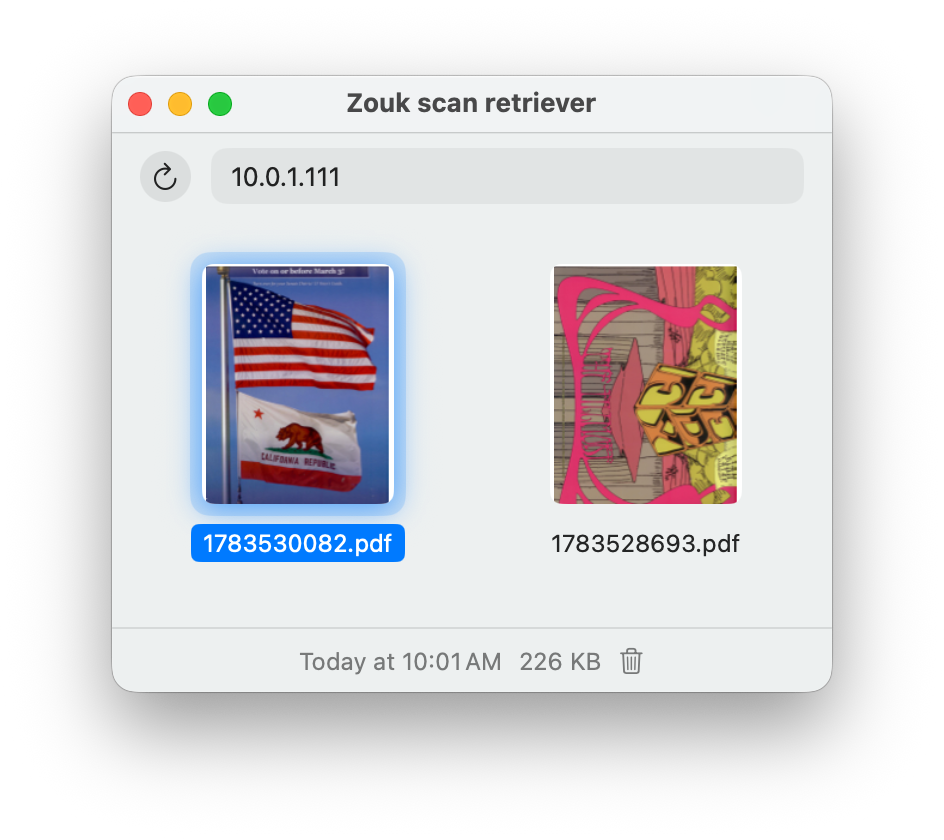
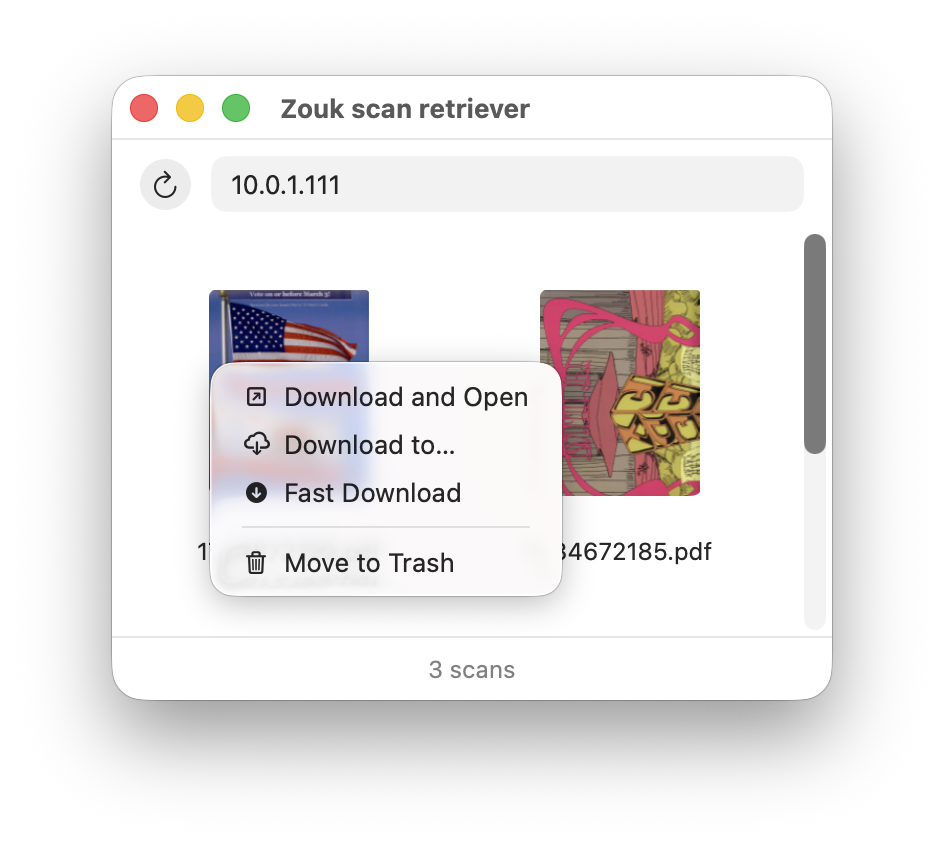
Polish up the README file.

diff --git a/README.md b/README.md
@@ -7,21 +7,19 @@
 
 ![zouk's scan grid, showing two real scans](docs/window.png)
 
-<img height="80" align="right" src="docs/insecure.png">
-
 We now have [tools](https://github.com/woodie/lambada/) to get files from
-an old scanner (that requires and open relay) but downloading files over HTTP
+an old scanner (that requires an open relay) but downloading files over HTTP
 with a web browser can be a drag (with steps to keep unsafe documents off your
 computer) and setting up HTTPS on your internal network is an absolute pain.
 Finally, serving files with Samba can work but it can be slow and awkward to use.
 
 <img align="left" src="docs/art_smaller.png">
 
-Fear not, now we have the Zouk scan retriever for MacOS.
+Fear not, now we have the Zouk scan retriever for macOS.
 This minimal Swift app is just what we need for browsing and downloading scans
 through [lambada](https://github.com/woodie/lambada) (created with Go)
 or [scandalous](https://github.com/woodie/scandalous) (created with Ruby).
-The main screen is similar ro a Samba share but much fater and easier to use.
+The main screen is similar to a Samba share but much faster and easier to use.
 
 On launch, zouk asks for a hostname or IP address (e.g.
 `10.0.1.111`) and remembers it for next time.
@@ -37,10 +35,6 @@ you'll see a brief "Saving…" note, and once it's done the footer reads
 "File … saved." and stays that way until you click something else, so
 it's hard to miss.
 
-Run `make run` rather than `swift run` directly -- it assembles a minimal
-`zouk.app` and launches it with `open`, so macOS activates it like a
-normal Mac app instead of leaving keystrokes going to the terminal.
-
 ## Compatibility
 
 zouk talks `GET /files.json` and expects a `path` field per entry.
@@ -54,6 +48,8 @@ Building from source and the project layout moved to
 [docs/DEVELOPER.md](docs/DEVELOPER.md).
 
 ## Install
+
+### macOS
 
 **Homebrew install or direct pkg download**
 
@@ -78,3 +74,8 @@ double-click it -- Next, Next, Done, like any other Mac installer.
 Zouk is signed and notarized so it installs and launches with no 
 Gatekeeper warning -- just the routine "downloaded from the Internet" 
 notice macOS shows on any first launch, with a normal Open button.
+
+### Windows
+
+Use [`huck`](https://github.com/woodie/huck) instead -- the native
+Kotlin/Compose port of this same app for Windows.